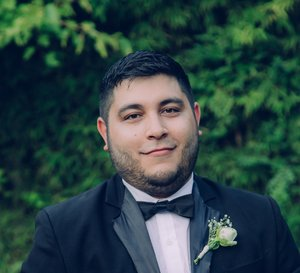
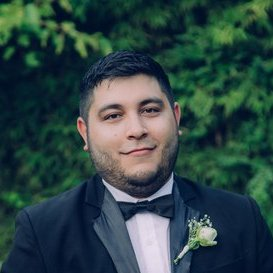
Se realiza correcciones estéticas

diff --git a/src/app/app.component.html b/src/app/app.component.html
@@ -3,7 +3,7 @@
         <section id="barraPrincipal">
             <ul id="contenedorBarra">
                 <li>
-                    <img id="perfilFoto" src="assets/images/miFoto.jpg" alt="Mi foto">
+                    <img id="perfilFoto" src="assets/images/miFoto.jpg" alt="Guillermo Gigeroa">
                 </li>
                 <li>
                     <h1>Guillermo Gigeroa</h1>

diff --git a/src/app/components/skills/skills.component.html b/src/app/components/skills/skills.component.html
@@ -1,5 +1,5 @@
 <div class="banner">
-    <h4>Mis habilidades</h4>
+    <h4 class="banner-title">Mis habilidades</h4>
     <button
         class="btn btn-outline-light"
         (click)="toggleMenu()">

diff --git a/src/app/components/pages/pages.component.html b/src/app/components/pages/pages.component.html
@@ -1,5 +1,5 @@
 <div class="banner">
-    <h4>Mis páginas</h4>
+    <h4 class="banner-title">Mis páginas</h4>
     <button
         class="btn btn-outline-light"
         (click)="toggleMenu()">

diff --git a/src/app/components/contact/contact.component.html b/src/app/components/contact/contact.component.html
@@ -1,5 +1,5 @@
 <div class="banner">
-    <h4>Contacto</h4>
+    <h4 class="banner-title">Contacto</h4>
     <button
         class="btn btn-outline-light"
         (click)="toggleMenu()">

diff --git a/src/assets/scss/_styles.scss b/src/assets/scss/_styles.scss
@@ -251,6 +251,7 @@ section ul>li>ul>li>ul {
     border-style: solid;
     border-radius: 200px 200px 200px 200px;
     width: 200px;
+    object-fit: cover;
 }
 
 #contenedorBarra {

diff --git a/src/styles.scss b/src/styles.scss
@@ -14,3 +14,7 @@ body {
     border-radius: 100% !important;
     font-weight: bolder;
 }
+
+.banner-title {
+    margin-right: 10px;
+}
